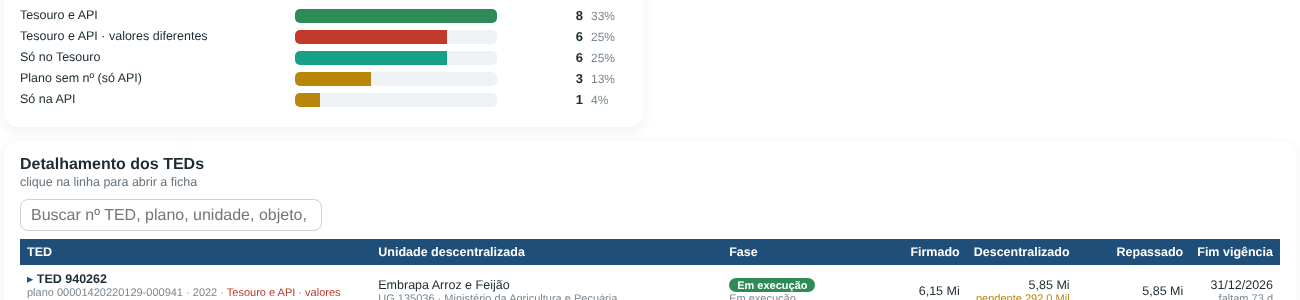
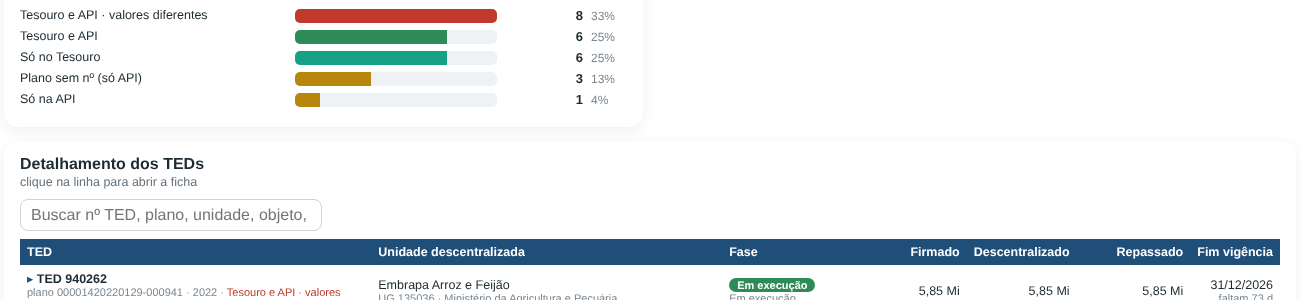
TED: valor atual pelo Tesouro (a repassar + repassado + devolvido) com supressão/aditivo; repassado inclui a aprovar e aprovado/concluído
Claude-Session: https://claude.ai/code/session_01NthMbWdmVFEibmh8kZEHRm

diff --git a/scripts/paginas/ted.html b/scripts/paginas/ted.html
@@ -136,7 +136,7 @@ const kpi = (rot, val, sub, cls, def) => { let a = '';
 const ABERTO = new Set(), PAG = {};
 // empenhado pela unidade maior que o crédito do TED (firmado ou descentralizado): pede verificação (aditivo? empenho de outro instrumento?)
 // valor do TED: o registrado no Tesouro (SIAFI) vale mais que o da API, que pode estar desatualizado
-const credTED = o => (o.tes && o.tes.fir > 0) ? o.tes.fir : (o.fir||0) > 0 ? o.fir : (o.nc||0);
+const credTED = o => (o.fir||0) > 0 ? o.fir : (o.nc||0);
 const empAcima = o => o.neT && o.neT[0] > credTED(o) + 1;
 const mesN = m => ['','jan','fev','mar','abr','mai','jun','jul','ago','set','out','nov','dez'][m]||'';
 function ficha(o){
@@ -152,7 +152,7 @@ function ficha(o){
   return `<div class="fi"><div class="fcab" style="--fc:${COR_F[o.fase]||'#1f4e79'}">
    <small>Termo de Execução Descentralizada · ${o.er==='Recebido'?'recebido pela':'enviado pela'} UG ${esc(o.er==='Recebido'?o.ugr:o.ugd)}</small>
    <h4>${o.n?'TED '+esc(o.n):'Plano de ação '+esc(o.cod)}</h4><p>${esc(o.unr)} · UG ${esc(o.ugr)}</p>
-   <span class="pl" style="background:${COR_F[o.fase]}">● ${esc(o.fase)}</span>${o.org?`<span class="pl az">${esc(o.org)}</span>`:''}${o.emd?`<span class="pl">Emenda ${esc(o.emd)}</span>`:''}${alerta?`<span class="pl vm">⚠ ${alerta}</span>`:''}${empAcima(o)?`<span class="pl vm">⚠ Empenhado (${fm(o.neT[0])}) acima do valor do TED (${fm(credTED(o))}): verificar</span>`:''}
+   <span class="pl" style="background:${COR_F[o.fase]}">● ${esc(o.fase)}</span>${o.org?`<span class="pl az">${esc(o.org)}</span>`:''}${o.emd?`<span class="pl">Emenda ${esc(o.emd)}</span>`:''}${o.ajValor?`<span class="pl" style="background:${o.ajValor<0?'#c0392b':'#2e8a57'}">${o.ajValor<0?'Supressão '+fm(-o.ajValor):'Aditivo +'+fm(o.ajValor)} · firmado original ${fm(o.firOrig)}</span>`:''}${alerta?`<span class="pl vm">⚠ ${alerta}</span>`:''}${empAcima(o)?`<span class="pl vm">⚠ Empenhado (${fm(o.neT[0])}) acima do valor do TED (${fm(credTED(o))}): verificar</span>`:''}
    <div class="cx"><div>Ano<b>${esc(o.ano)}${o.anoInf?' <small>(1ª NC / vigência)</small>':''}</b></div><div>Departamento<b>${esc(o.dep)}</b></div><div>UF<b>${esc(o.uf)||'—'}${o.ufInf?' <small>(pelo nome)</small>':''}</b></div><div>Ação<b>${esc(o.acao)}</b></div><div>RP<b>${esc(o.rpN)}</b></div><div>Situação do termo<b>${esc(o.stN)}</b></div><div>Órgão de quem recebe<b>${esc(o.orr)}</b></div></div>
    <div class="fa"><button type="button" data-imp="${esc(o.id)}">🖨 Imprimir / PDF</button><button type="button" data-fecha title="Fechar (Esc)">✕</button></div></div>
   <div class="fcorpo">

diff --git a/scripts/paginas.py b/scripts/paginas.py
@@ -628,9 +628,15 @@ def ted(pasta):
         t, e = o.get('tes') or {}, o.get('eq') or {}
         o['api'] = dict(fir=o['fir'], nc=o['nc'], pf=o['pf'], ar=o['ar'], ini=o['ini'], fim=o.get('fimApi') or o['fim'], ano=o['ano'])
         nt, pt_ = o.get('ncTes') or [], o.get('pfTes') or []
-        # valor firmado: Tesouro → planilha → API
+        # valor firmado: Tesouro → planilha → API.
+        # No SIAFI a supressão (ou o aditivo) não mexe em "valores firmados": zera/aumenta o "a repassar". O valor atual do TED é então
+        # a repassar + repassado (a comprovar, comprovado, a aprovar, aprovado/concluído) + devolvido. Ex.: 991352, firmado 10,2 Mi, 7,2 Mi suprimidos.
         if pct_(t.get('fir')) and t['fir'] > 0:
             o['fir'] = t['fir']
+            if t.get('aRep') is not None and t.get('rep') is not None:
+                atual = round(t['aRep'] + t['rep'] + (t.get('dev') or 0), 2)
+                if atual > 0 and abs(atual - t['fir']) > 1:
+                    o['firOrig'], o['ajValor'], o['fir'] = t['fir'], round(atual - t['fir'], 2), atual
         elif e.get('firm'):
             o['fir'] = e['firm']
         # descentralizado: NCs do Tesouro (sem repetição, devoluções negativas) → saldo do Tesouro → API
@@ -642,11 +648,9 @@ def ted(pasta):
                 o['acao'] = ' | '.join(dict.fromkeys(acT))
         elif pct_(t.get('nc')) is not None:
             o['nc'] = t['nc']
-        # repassado: a comprovar + comprovado no Tesouro (o que já saiu para a unidade) → conta de repasse do Tesouro → API
+        # repassado: o que já saiu para a unidade no Tesouro (a comprovar + comprovado + a aprovar + aprovado/concluído) → API
         # (a soma do relatório de PF ainda não é confiável: valores com dígito a mais e devoluções com sinal trocado; as PFs aparecem só na lista)
-        if pct_(t.get('aComp')) is not None or pct_(t.get('comp')) is not None:
-            o['pf'] = round((t.get('aComp') or 0) + (t.get('comp') or 0), 2)
-        elif pct_(t.get('rep')) is not None:
+        if pct_(t.get('rep')) is not None:
             o['pf'] = t['rep']
         if pt_:
             o['pfs'] = pt_[:40]

diff --git a/scripts/ted_tesouro.py b/scripts/ted_tesouro.py
@@ -198,8 +198,9 @@ def interpretar(linhas, origem=''):
         # (firmado − a repassar só como último recurso: "a repassar" zerado não quer dizer que tudo foi repassado — ex.: TED 991352,
         #  firmado 10,2 Mi, a repassar 0, mas só 3 Mi repassados)
         if o.get('rep') is None:
-            if o.get('aComp') is not None or o.get('comp') is not None:
-                o['rep'] = round((o.get('aComp') or 0) + (o.get('comp') or 0), 2)
+            ks = ('aComp', 'comp', 'aApr', 'apr')   # a comprovar → comprovado → a aprovar → aprovado/concluído: tudo isso já saiu
+            if any(o.get(k) is not None for k in ks):
+                o['rep'] = round(sum(o.get(k) or 0 for k in ks), 2)
             elif o['fir'] is not None and o['aRep'] is not None:
                 o['rep'] = round(o['fir'] - o['aRep'], 2)
     return out
